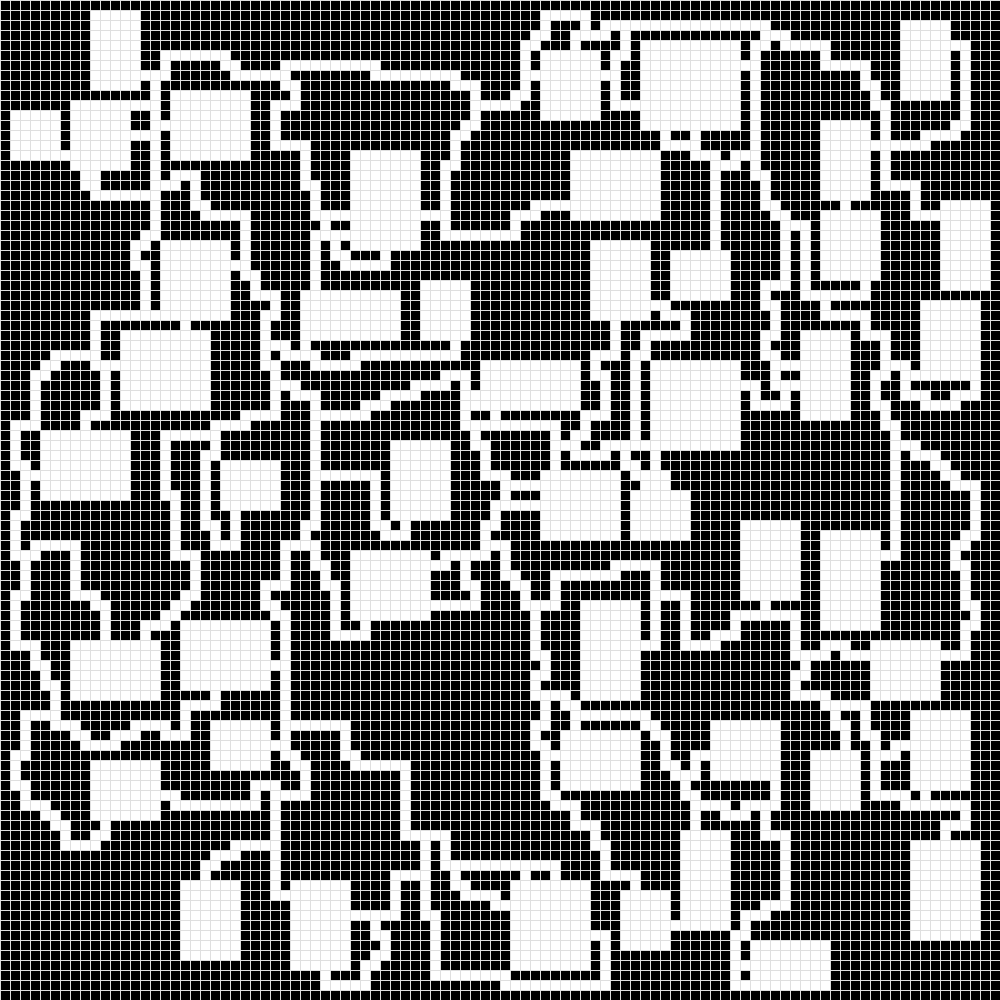
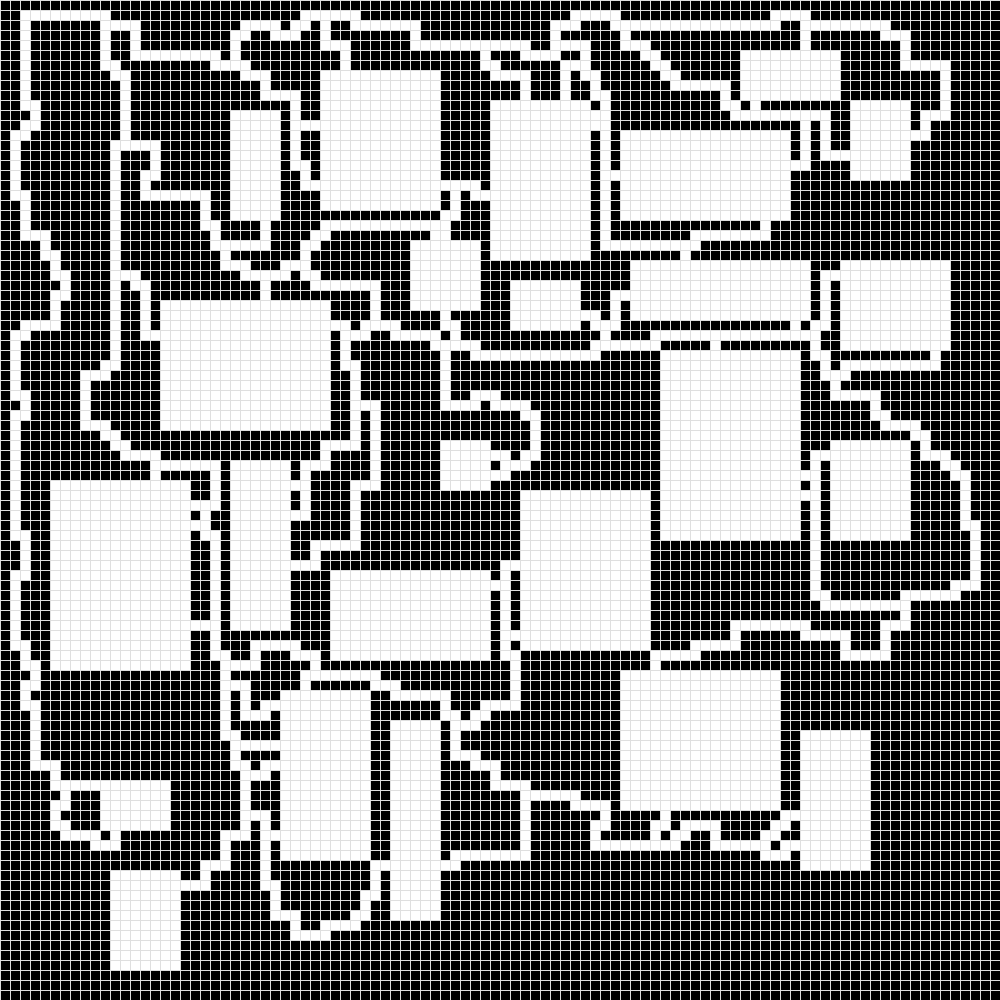
Started working on the GUI

diff --git a/src/GUI/main_gui.py b/src/GUI/main_gui.py
@@ -1,0 +1,209 @@
+from tkinter import *
+from tkinter import ttk
+from entities.map import Map
+from services.room_generation_service import RoomGenerationService
+from services.maze_generation_service import MazeGenerationService
+from services.drawing_service import DrawingService
+from repositories.map_repository import MapRepository
+
+class MainGUI:
+    """The main GUI class handling opening of the basic view of the GUI."""
+
+    def __init__(self):
+        root = Tk()
+        root.title("D&D Dungeon Generator")
+        mainframe = ttk.Frame(root, padding="3 3 12 12")
+        mainframe.grid(column=0, row=0, sticky=(N, W, E, S))
+        scaleframe = ttk.Frame(root, padding="3 3 12 12")
+        scaleframe.grid(column=0, row=1, sticky=(N, W, E, S))
+        buttonframe = ttk.Frame(root, padding="3 3 12 12")
+        buttonframe.grid(column=0, row=2)
+        errorframe = ttk.Frame(root, padding="3 3 12 12")
+        errorframe.grid(column=0, row=3)
+        root.columnconfigure(0, weight=1)
+        root.rowconfigure(0, weight=1)
+
+        # INPUTS
+        self.cell_dimensions = IntVar(value=5)
+        cell_dimensions_entry = ttk.Entry(mainframe,
+                                          width=7,
+                                          textvariable=self.cell_dimensions)
+        cell_dimensions_entry.grid(column=2, row=1, sticky=(W, E))
+
+        self.map_width = IntVar(value=20)
+        map_width_entry = ttk.Entry(mainframe,
+                                    width=7,
+                                    textvariable=self.map_width)
+        map_width_entry.grid(column=2, row=2, sticky=(W, E))
+        self.map_height = IntVar(value=20)
+        map_height_entry = ttk.Entry(mainframe,
+                                     width=7,
+                                     textvariable=self.map_height)
+        map_height_entry.grid(column=4, row=2, sticky=(W, E))
+
+        self.room_min_width = IntVar(value=2)
+        room_min_width_entry = ttk.Entry(mainframe,
+                                         width=7,
+                                         textvariable=self.room_min_width)
+        room_min_width_entry.grid(column=2, row=3, sticky=(W, E))
+        self.room_min_height = IntVar(value=2)
+        room_min_height_entry = ttk.Entry(mainframe,
+                                          width=7,
+                                          textvariable=self.room_min_height)
+        room_min_height_entry.grid(column=4, row=3, sticky=(W, E))
+
+        self.room_max_width = IntVar(value=5)
+        room_max_width_entry = ttk.Entry(mainframe,
+                                         width=7,
+                                         textvariable=self.room_max_width)
+        room_max_width_entry.grid(column=2, row=4, sticky=(W, E))
+        self.room_max_height = IntVar(value=5)
+        room_max_height_entry = ttk.Entry(mainframe,
+                                          width=7,
+                                          textvariable=self.room_max_height)
+        room_max_height_entry.grid(column=4, row=4, sticky=(W, E))
+
+        self.loop_probability = DoubleVar(value=0.50)
+        loop_probability_scale = ttk.Scale(scaleframe,
+                                           orient=HORIZONTAL,
+                                           length=200,
+                                           from_=0.0,
+                                           to=1.0,
+                                           variable=self.loop_probability)
+        loop_probability_scale.grid(column=3, row=1, sticky=(W, E))
+
+        # ENTRY LABELS
+        cell_dimensions_label = ttk.Label(mainframe, text="Square width and height")
+        cell_dimensions_label.grid(column=1, row=1)
+
+        map_dimensions_label = ttk.Label(mainframe, text="Map dimensions")
+        map_dimensions_label.grid(column=1, row=2)
+
+        room_min_dimensions_label = ttk.Label(mainframe, text="Room min dimensions")
+        room_min_dimensions_label.grid(column=1, row=3)
+
+        room_max_dimensions_label = ttk.Label(mainframe, text="Room max dimensions")
+        room_max_dimensions_label.grid(column=1, row=4)
+
+        loop_probability_label = ttk.Label(scaleframe, text="Likelihood of loops")
+        loop_probability_label.grid(column=1, row=1)
+
+        # DIVIDER LABELS
+        map_dimensions_divider = ttk.Label(mainframe, text="x")
+        map_dimensions_divider.grid(column=3, row=2)
+
+        room_min_dimensions_divider = ttk.Label(mainframe, text="x")
+        room_min_dimensions_divider.grid(column=3, row=3)
+
+        room_max_dimensions_divider = ttk.Label(mainframe, text="x")
+        room_max_dimensions_divider.grid(column=3, row=4)
+
+        # UNIT LABELS
+        cell_dimensions_unit = ttk.Label(mainframe, text="px")
+        cell_dimensions_unit.grid(column=3, row=1)
+
+        map_dimensions_unit = ttk.Label(mainframe, text="squares")
+        map_dimensions_unit.grid(column=5, row=2)
+
+        room_min_dimensions_unit = ttk.Label(mainframe, text="squares")
+        room_min_dimensions_unit.grid(column=5, row=3)
+
+        room_max_dimensions_unit = ttk.Label(mainframe, text="squares")
+        room_max_dimensions_unit.grid(column=5, row=4)
+
+        loop_probability_unit_left = ttk.Label(scaleframe, text="None")
+        loop_probability_unit_left.grid(column=2, row=1)
+
+        loop_probability_unit_right = ttk.Label(scaleframe, text="All")
+        loop_probability_unit_right.grid(column=4, row=1)
+
+        # SCALE VALUES
+        loop_probability_value = ttk.Label(scaleframe, textvariable=self.loop_probability)
+        loop_probability_value.grid(column=3, row=2)
+
+        # BUTTONS
+        generate_button = ttk.Button(buttonframe,
+                                     text="Generate dungeon",
+                                     command=self.validate_and_start)
+        generate_button.grid(column=1, row=1)
+
+        # ERROR MESSAGES
+        self.error_message = StringVar()
+        error_message_label = ttk.Label(errorframe,
+                                        textvariable=self.error_message,
+                                        foreground="red")
+        error_message_label.grid(column=1, row=1)
+
+        for child in mainframe.winfo_children():
+            child.grid_configure(padx=5, pady=5)
+        for child in scaleframe.winfo_children():
+            child.grid_configure(padx=5, pady=5)
+        root.mainloop()
+
+    def validate_and_start(self):
+        """Validate user inputs and start if they're correct"""
+        try:
+            cell_dimensions = self.cell_dimensions.get()
+        except TclError as error:
+            self.error_message.set(f"Square width and height: {error}")
+        try:
+            map_width = self.map_width.get()
+            map_height = self.map_height.get()
+        except TclError as error:
+            self.error_message.set(f"Map dimensions: {error}")
+        try:
+            room_min_width = self.room_min_width.get()
+            room_min_height = self.room_min_height.get()
+        except TclError as error:
+            self.error_message.set(f"Room min dimensions: {error}")
+        try:
+            room_max_width = self.room_max_width.get()
+            room_max_height = self.room_max_height.get()
+        except TclError as error:
+            self.error_message.set(f"Room max dimensions: {error}")
+        try:
+            odds_of_loops = self.loop_probability.get()
+        except TclError as error:
+            self.error_message.set(f"Likelihood of loops: {error}")
+        self.error_message.set("")
+        self._start_generation(cell_dimensions,
+                               map_width,
+                               map_height,
+                               room_min_width,
+                               room_min_height,
+                               room_max_width,
+                               room_max_height,
+                               100, # Temporary, waiting for the GUI setting
+                               odds_of_loops)
+
+    def _start_generation(self, cell_dim, map_w, map_h, room_min_w, room_min_h, room_max_w, room_max_h, room_gen_attempts, loop_odds):
+        """Start the generation of the dungeon
+
+        Args:
+            cell_dim: The width and height of a cell will share the same value
+            map_w: The width of the map in squares
+            map_h: The height of the map in squares
+            room_min_w: The minimum width of a room in squares
+            room_min_h: The minimum height of a room in squares
+            room_max_w: The maximum width of a room in squares
+            room_max_h: The maximum height of a room in squares
+            room_gen_attempts: How many rooms will the program attempt to generate
+            loop_odds: The likelihood of loops in the dungeon, i.e. the imperfectness of the maze
+        """
+        map_obj = Map(map_w, map_h)
+        room_gen = RoomGenerationService(cell_dim, cell_dim, map_w, map_h)
+        room_gen.generate_random_rooms(room_gen_attempts,
+                                       room_min_w,
+                                       room_max_w,
+                                       room_min_h,
+                                       room_max_h)
+        drawing = DrawingService(room_gen, map_obj, (cell_dim, cell_dim))
+        drawing.draw_rooms()
+        maze_gen = MazeGenerationService(map_obj)
+        maze_gen.init_maze()
+        maze_gen.generate_perfect_maze()
+        maze_gen.connect_maze_to_rooms(loop_odds)
+        maze_gen.prune_dead_ends()
+        drawing.draw_corridors()
+        drawing.draw_grid()
+        MapRepository(drawing.get_image()).save("demo/test")

diff --git a/src/index.py b/src/index.py
@@ -1,39 +1,21 @@
 from datetime import datetime
 from datetime import timedelta
+from GUI.main_gui import MainGUI
+
 from entities.map import Map
 from services.room_generation_service import RoomGenerationService
 from services.maze_generation_service import MazeGenerationService
-from services.drawing_service import DrawingService
-from repositories.map_repository import MapRepository
 
 def main():
-    cell_width = 10
-    cell_height = 10
-    map_width = 100
-    map_height = 100
-    rooms_to_generate = 100
-    room_min_width = 5
-    room_max_width = 10
-    room_min_height = 5
-    room_max_height = 10
-    odds_of_loops = 0.05
-    map_obj = Map(map_width, map_height)
-    room_gen = RoomGenerationService(cell_width, cell_height, map_width, map_height)
-    room_gen.generate_random_rooms(rooms_to_generate, room_min_width, room_max_width, room_min_height, room_max_height)
-    drawing = DrawingService(room_gen, map_obj, (cell_width, cell_height))
-    drawing.draw_rooms()
-    maze_gen = MazeGenerationService(map_obj)
-    maze_gen.init_maze()
-    maze_gen.generate_perfect_maze()
-    maze_gen.connect_maze_to_rooms(odds_of_loops)
-    maze_gen.prune_dead_ends()
-    drawing.draw_corridors()
-    drawing.draw_grid()
-    MapRepository(drawing.get_image()).save("demo/test")
-
+    """The program starts its run here"""
+    MainGUI()
     #print(performance_test())
 
+
 def performance_test():
+    """Measure the program's performance
+    
+    Returns: String containing the results of the performance test"""
     cell_width = 5
     cell_height = 5
     map_width = 100

diff --git a/documentation/userstories.md b/documentation/userstories.md
@@ -21,13 +21,13 @@ The feature has to be developed as specified in this document and have a reasona
 - The program can generate a movement grid **(D)**
 - The program can generate rooms of various sizes **(D)**
 - The program can generate hallways **(D)**
-- The hallways are reasonably connected to the rooms **(S)**
-- The user can specify the size of the dungeon **(U)**
-    - The required GUI element **(U)**
-- The user can specify the likelihood of loops (the "imperfectness" of the maze) **(U)**
-    - The required GUI element **(U)**
-- The user can specify the average size of rooms **(U)**
-    - The required GUI element **(U)**
+- The hallways are reasonably connected to the rooms **(D)**
+- The user can specify the size of the dungeon **(S)**
+    - The required GUI element **(S)**
+- The user can specify the likelihood of loops (the "imperfectness" of the maze) **(S)**
+    - The required GUI element **(S)**
+- The user can specify the average size of rooms **(S)**
+    - The required GUI element **(S)**
 - The program numbers the rooms **(U)**
     - Generated text file with room numbers and empty details **(U)**
 - The user can specify the descriptions of different rooms **(U)**
